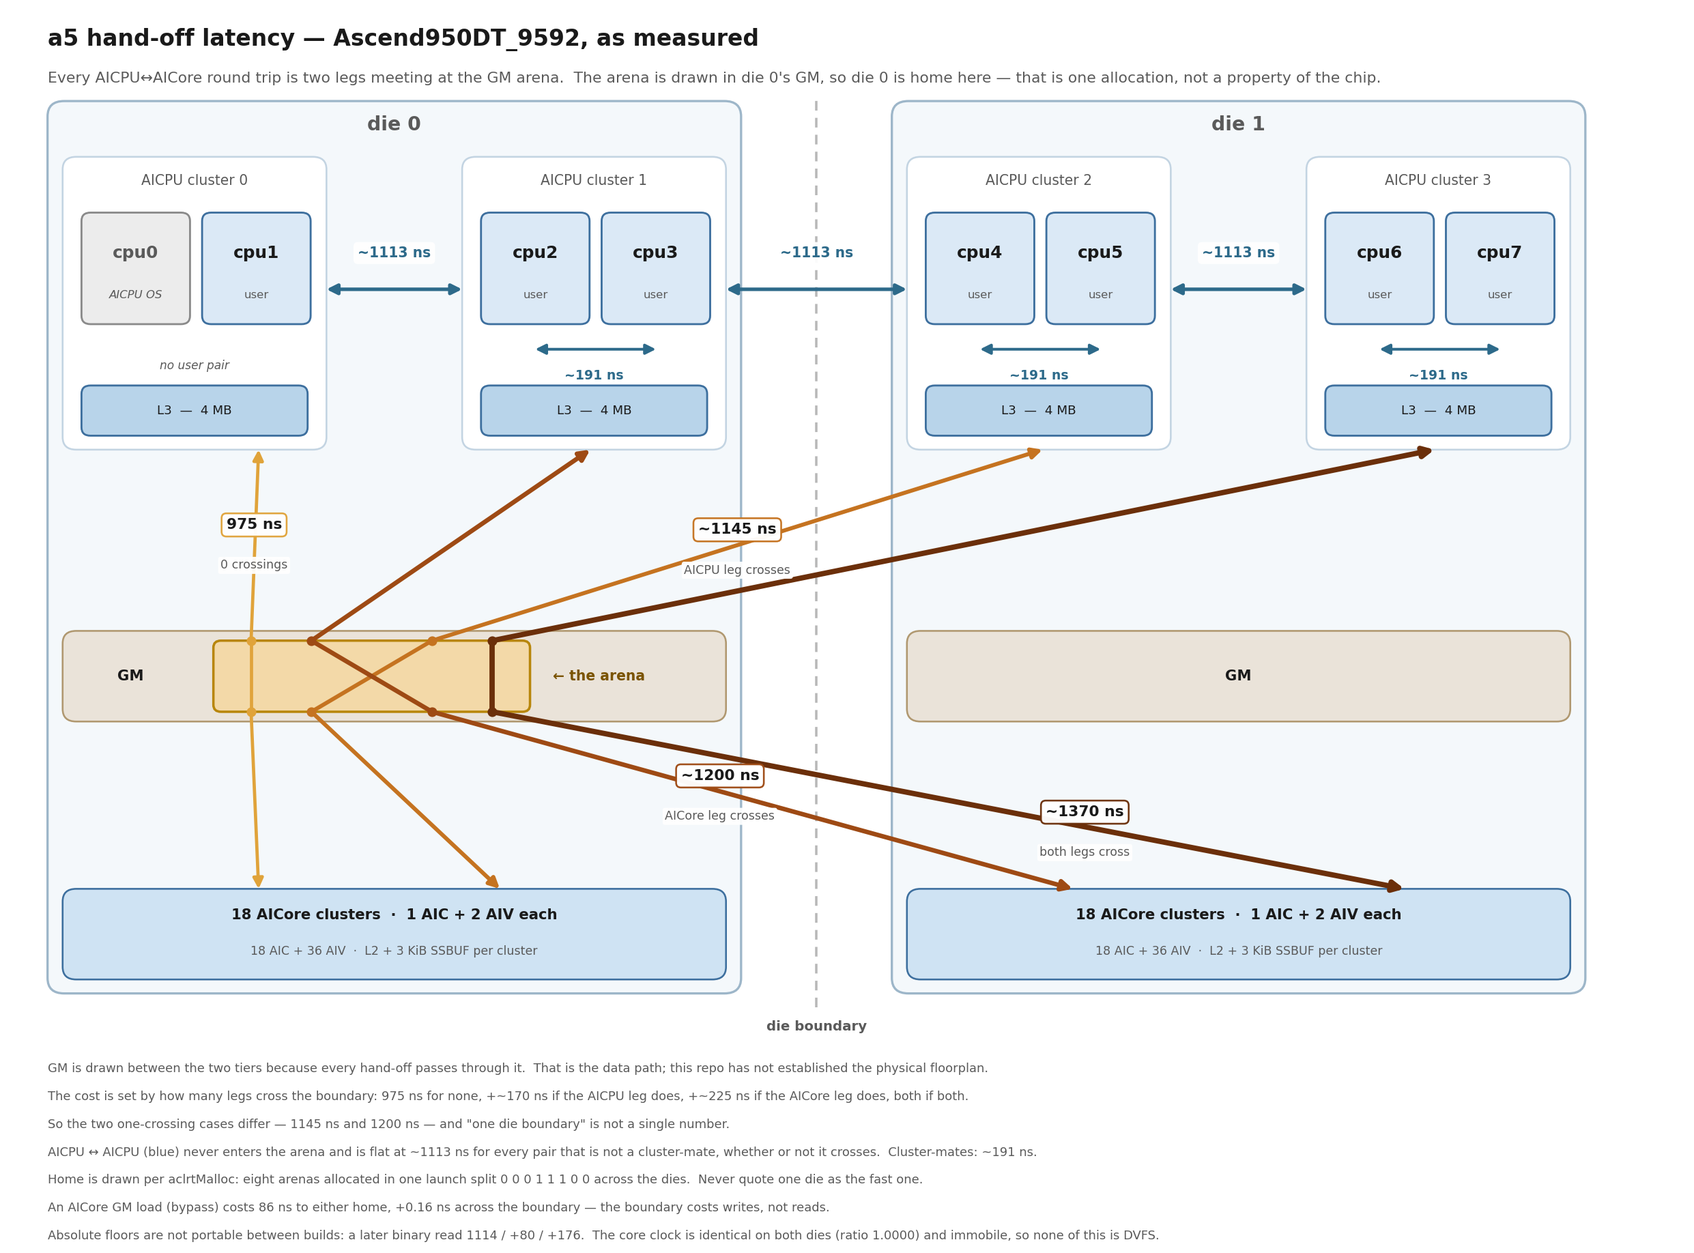
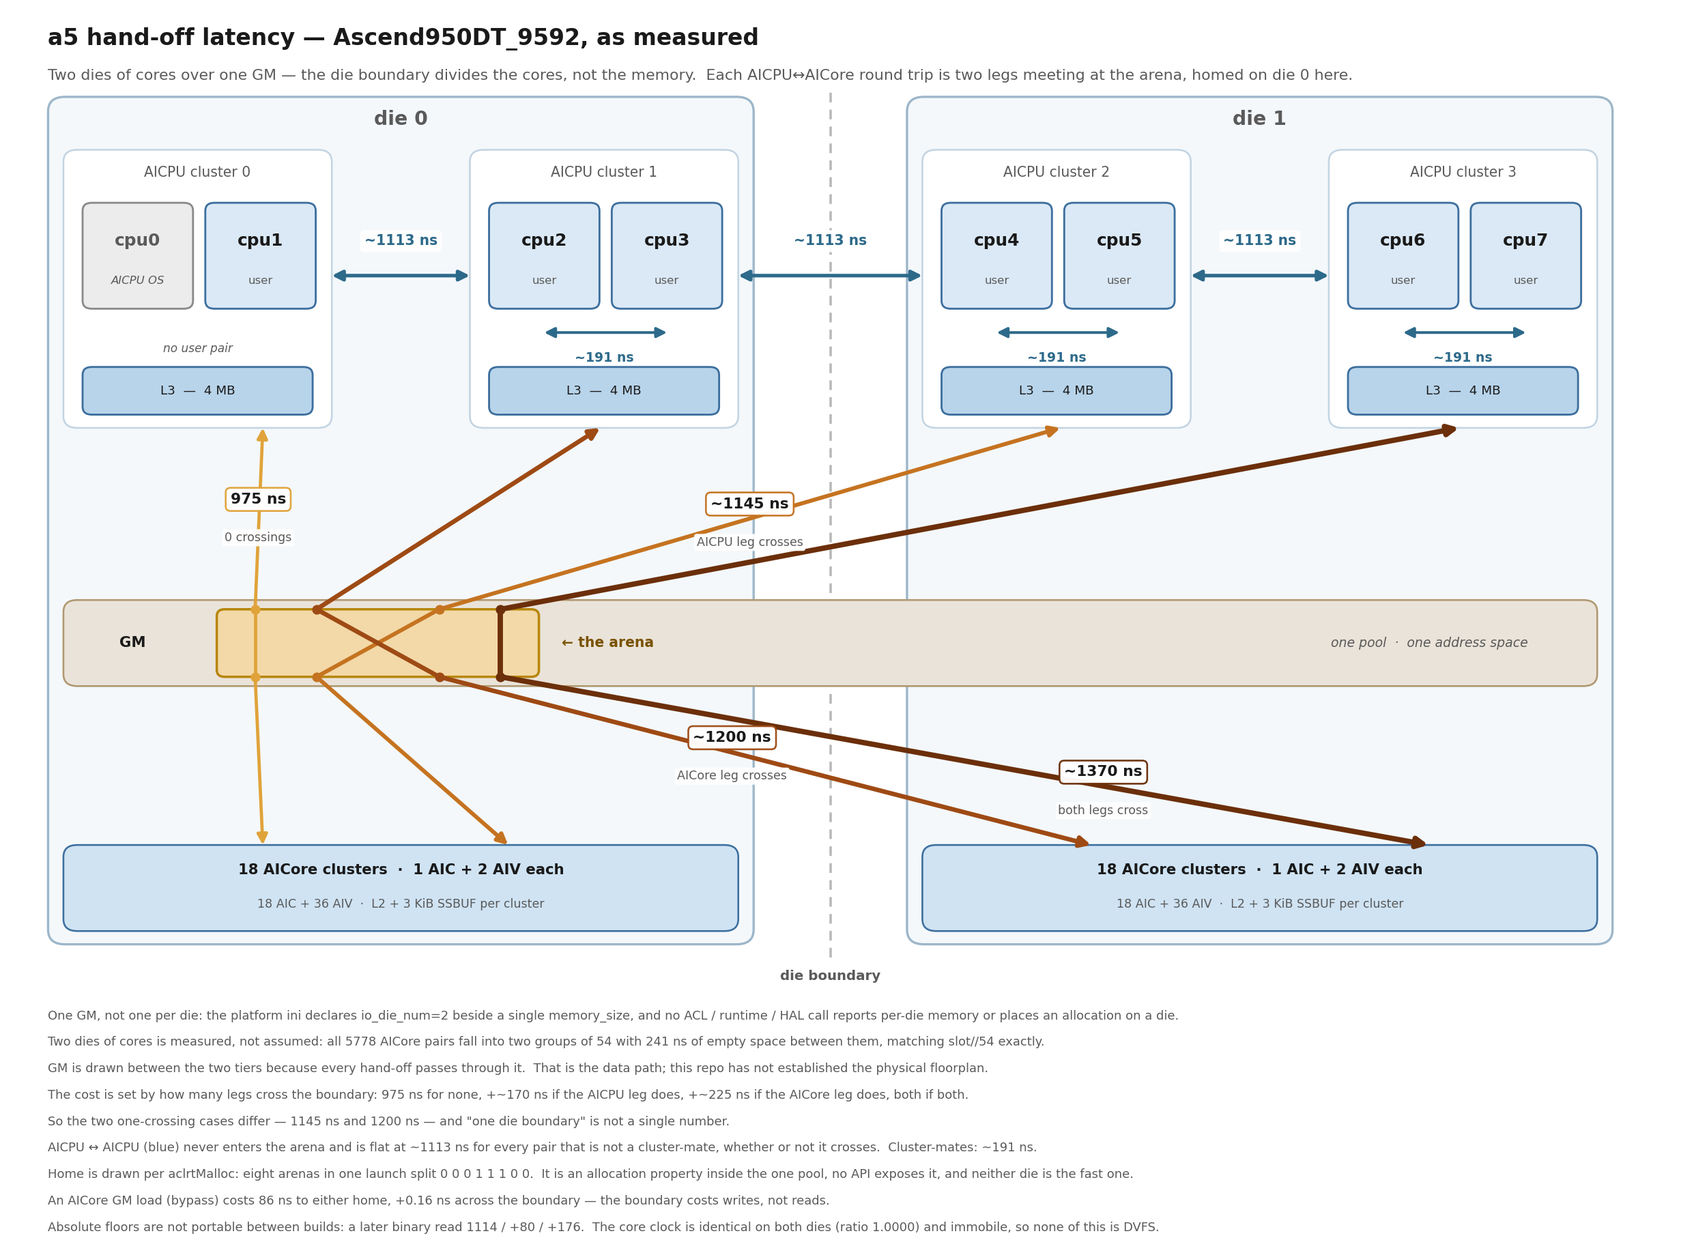
Add: measure every AICore pair, and correct the GM claim
The findings doc drew a GM inside each die. Measuring all 108 AIC/AIV
sub-cores rather than a 24-slot subset shows that claim is half right:
the dies are real, the split memory is not.

core2core now schedules every unordered pair of all 108 slots. 5778 pairs
exceeds PP_MAX_ROUNDS, so the schedule is chunked across arenas host-side
rather than by raising the constant -- the arena layout stays byte-identical,
which is what keeps the new numbers comparable with the published ones.

All 5778 pairs, 12 repeats, 69336 round trips, zero failures:

- Thresholding the matrix at its widest empty band and taking connected
  components, a procedure that reads no slot number, returns exactly two
  groups of 54 matching slot/54. No same-die pair is slower than any
  cross-die pair; 241 ns separates the populations with nothing in it.
- Allocations differ by up to 19.8 ns reproducibly, but both dies move
  together to within 1.0 ns, so an allocation carries no die affinity.
  With the platform ini declaring io_die_num=2 beside a single
  memory_size, and no ACL/runtime/HAL call placing an allocation on a die,
  the defensible picture is two dies of cores over one GM.

Two earlier claims came from the 8-cluster subset and do not survive full
sampling: a ~31 ns arena-home effect for AICore pairs, which is 1.0 ns, and
a cluster-distance gradient, which is per-cluster offsets (r falls from
+0.72 to -0.09 once they are removed). Both are corrected in the doc.
[…]

Changed region(s): [[0.031, 0.031, 0.9617, 0.8382], [0.031, 0.8693, 0.6825, 0.9935], [0.5274, 0.0621, 0.9307, 0.1242]]

diff --git a/tools/cann-examples/aicpu-aicore-pingpong/host/launch.cpp b/tools/cann-examples/aicpu-aicore-pingpong/host/launch.cpp
@@ -282,6 +282,13 @@ int main(int argc, char **argv) {
     // Full matrix in one launch. Per-launch overhead is ~58 s against ~1.2 ms
     // of measurement, so 756 launches would take 12 h; 756 rounds inside one
     // launch take about a second, and share a clock state into the bargain.
+    //
+    // A schedule longer than PP_MAX_ROUNDS is split into equal chunks that each
+    // fit the arena's pair_list, and one arena runs one chunk. The split is a
+    // host-side loop, so the arena layout the device sees is unchanged and the
+    // numbers stay comparable with a run whose schedule fit in a single piece.
+    std::vector<uint32_t> c2c_all;
+    uint32_t c2c_chunk_rounds = 0;
     {
         const char *cpus_env = std::getenv("PP_CPUS");
         uint32_t n = 0;
@@ -355,43 +362,34 @@ int main(int argc, char **argv) {
         std::printf("[sweep] schedule: %zu rounds, pair order shuffled (seed=%u)\n", sched.size(), seed);
 
         if (mode == PP_MODE_CORE2CORE) {
-            // Replace the sampled schedule: both endpoints are AICore slots
-            // now, and the contrast that matters is cluster / die / chip. A
-            // random sample of the 108-slot space would almost never draw two
-            // slots of the same cluster, which is the one pair with a path
-            // that does not go through GM.
-            static const uint32_t kClusters[] = {0u, 1u, 9u, 17u};
-            uint32_t n_sl = 0;
-            for (uint32_t d = 0; d < 2u; ++d) {
-                for (uint32_t k = 0; k < sizeof(kClusters) / sizeof(kClusters[0]); ++k) {
-                    const uint32_t c = kClusters[k];
-                    const uint32_t base = d * PP_SLOTS_PER_DIE;
-                    host_arena.slot_list[n_sl++] = base + c;
-                    host_arena.slot_list[n_sl++] = base + PP_AIC_PER_DIE + 2u * c;
-                    host_arena.slot_list[n_sl++] = base + PP_AIC_PER_DIE + 2u * c + 1u;
-                }
-            }
+            // Replace the sampled schedule with every AICore slot: both
+            // endpoints are AICore here, and the question is which pairs are
+            // slow, so no pair may be dropped. slot_list is in natural order,
+            // which makes an index into it the slot id itself; the pair order
+            // carries the shuffle instead, so a round's die and cluster
+            // relation is independent of its position in the sweep.
+            const uint32_t n_sl = PP_MAX_SLOTS;
+            for (uint32_t i = 0; i < n_sl; ++i) host_arena.slot_list[i] = i;
             host_arena.ctl.n_cpus = 0;
             host_arena.ctl.n_slots = n_sl;
-            std::vector<uint32_t> c2c;
             for (uint32_t rep = 0; rep < host_arena.ctl.n_reps; ++rep) {
                 for (uint32_t i = 0; i < n_sl; ++i) {
-                    for (uint32_t j = i + 1u; j < n_sl; ++j) c2c.push_back((i << 16) | j);
+                    for (uint32_t j = i + 1u; j < n_sl; ++j) c2c_all.push_back((i << 16) | j);
                 }
             }
-            std::shuffle(c2c.begin(), c2c.end(), rng);
-            if (c2c.size() > PP_MAX_ROUNDS) {
-                std::fprintf(stderr, "core2core schedule %zu rounds exceeds PP_MAX_ROUNDS=%u\n", c2c.size(),
-                             PP_MAX_ROUNDS);
-                return 1;
-            }
-            host_arena.ctl.n_rounds = (uint32_t)c2c.size();
-            for (uint32_t i = 0; i < c2c.size(); ++i) host_arena.pair_list[i] = c2c[i];
-            std::printf("[c2c] %u AICore slots over 8 clusters, %u rounds (unordered pairs x %u reps)\n", n_sl,
-                        host_arena.ctl.n_rounds, host_arena.ctl.n_reps);
-            std::printf("[c2c] slots:");
-            for (uint32_t i = 0; i < n_sl; ++i) std::printf(" %u", (uint32_t)host_arena.slot_list[i]);
-            std::printf("\n");
+            std::shuffle(c2c_all.begin(), c2c_all.end(), rng);
+
+            // Chunks are equal-sized so every arena runs the same number of
+            // rounds for the same wall time, and a chunk is a slice of the
+            // already-shuffled list, so it holds a random subset of pairs
+            // rather than a die or cluster stratum.
+            const uint32_t n_chunks = (uint32_t)((c2c_all.size() + PP_MAX_ROUNDS - 1u) / PP_MAX_ROUNDS);
+            c2c_chunk_rounds = (uint32_t)((c2c_all.size() + n_chunks - 1u) / n_chunks);
+            host_arena.ctl.n_rounds = c2c_chunk_rounds;
+            std::printf("[c2c] %u AICore slots, %zu unordered pairs x %u reps = %zu rounds\n", n_sl,
+                        (size_t)n_sl * (n_sl - 1u) / 2u, host_arena.ctl.n_reps, c2c_all.size());
+            std::printf("[c2c] %u chunk(s) of %u rounds; arena a runs chunk a %% %u\n", n_chunks, c2c_chunk_rounds,
+                        n_chunks);
         }
     }
     {
@@ -529,6 +527,16 @@ int main(int argc, char **argv) {
         // ctl, slot_list and pair_list are device-read-only, so the host copy
         // read back from the previous sweep still holds the schedule.
         host_arena.sched.round = 0;
+        if (mode == PP_MODE_CORE2CORE && !c2c_all.empty()) {
+            const uint32_t n_chunks = (uint32_t)((c2c_all.size() + c2c_chunk_rounds - 1u) / c2c_chunk_rounds);
+            const uint32_t chunk = a % n_chunks;
+            const size_t first = (size_t)chunk * c2c_chunk_rounds;
+            const size_t len = std::min((size_t)c2c_chunk_rounds, c2c_all.size() - first);
+            for (size_t i = 0; i < len; ++i) host_arena.pair_list[i] = c2c_all[first + i];
+            host_arena.ctl.n_rounds = (uint32_t)len;
+            std::printf("[c2c] arena %u runs chunk %u of %u: pairs %zu..%zu\n", a, chunk, n_chunks, first,
+                        first + len - 1u);
+        }
         ACL_CHECK(aclrtMemset(arena, sizeof(PpArena), 0, sizeof(PpArena)), "memset arena");
         ACL_CHECK(
             aclrtMemcpy(arena, offsetof(PpArena, attendance), &host_arena, offsetof(PpArena, attendance),

diff --git a/tools/cann-examples/a5-latency-findings/README.md b/tools/cann-examples/a5-latency-findings/README.md
@@ -5,35 +5,41 @@ device ids. Nothing was measured on `Ascend950PR` — the layout is probably the
 same, but treat every number below as unverified there until someone runs the
 tools on one.
 
-Both figures are **corroboration, not the source**: every number in them is also
-written out below, so this file can be read as plain text.
+All four figures are **corroboration, not the source**: every number in them is
+also written out below, so this file can be read as plain text.
 
 ## The chip
 
-![a5 hand-off latency: two dies, each carrying 4 AICPU cores in 2 clusters, 18
-AICore clusters of 1 AIC + 2 AIV, and its own GM, with the arena drawn in die
-0's GM and every measured round trip drawn as two legs meeting at that
-arena](figures/a5-topology.png)
+![a5 hand-off latency: two dies, each carrying 4 AICPU cores in 2 clusters and
+18 AICore clusters of 1 AIC + 2 AIV, sitting over one GM that spans both, with
+the arena homed on die 0 and every measured round trip drawn as two legs
+meeting at that arena](figures/a5-topology.png)
 
 ```text
 die 0                                  die 1
   AICPU cluster 0: cpu0 (OS)  cpu1       AICPU cluster 2: cpu4  cpu5
   AICPU cluster 1: cpu2       cpu3       AICPU cluster 3: cpu6  cpu7
   L3 4 MB per AICPU cluster              L3 4 MB per AICPU cluster
-  ----- GM -----------------------       ----- GM -----------------------
+
+  ===== GM, 96 GiB, one pool spanning both dies =======================
+
   18 AICore clusters, 1 AIC + 2 AIV      18 AICore clusters, 1 AIC + 2 AIV
     = 18 AIC + 36 AIV                      = 18 AIC + 36 AIV
     L2 + 3 KiB SSBUF per cluster           L2 + 3 KiB SSBUF per cluster
 
-  GM is drawn between the two tiers because every AICPU<->AICore hand-off
-  passes through it.  That is the data path; the physical floorplan is not
-  established here.
+  The die boundary runs between the cores, not through the memory.  GM is
+  drawn between the two tiers because every hand-off passes through it:
+  that is the data path, and the physical floorplan is not established
+  here.
 ```
 
-**Two dies, and each one carries a full set of everything**: 4 AICPU cores (2
-clusters of 2), 18 AICore clusters of 1 AIC + 2 AIV, and its own GM. It is not
-an AICPU die pair plus an AICore die pair, and there is no memory pool sitting
-between them.
+**Two dies, and each one carries a full set of cores**: 4 AICPU cores (2
+clusters of 2) and 18 AICore clusters of 1 AIC + 2 AIV. It is not an AICPU die
+pair plus an AICore die pair.
+
+**The memory is not divided the same way.** The two dies share one GM — see
+[Two dies, one GM](#two-dies-one-gm) for the measurement and the vendor-side
+evidence.
 
 `cpu0` is owned by the AICPU OS, so 7 cores are user-schedulable — 3 on die 0 and
 4 on die 1. `cluster_id = phy_cpu_id / 2`, `die_id = phy_cpu_id / 4`.
@@ -105,6 +111,11 @@ single launch split `0 0 0 1 1 1 0 0` across the two dies. This is why the same
 binary looks like it favours die 0 in one launch and die 1 in the next — the
 arena landed on the other side. **Never quote one die as the fast one.**
 
+Note, though, that the home die here was identified by *which configuration ran
+faster*, and the AICore↔AICore matrix finds no home effect at all. See
+[Two dies, one GM](#two-dies-one-gm) — the effect is real, its cause is not
+established.
+
 ## The boundary costs writes, not reads
 
 | Across the die boundary | Penalty |
@@ -154,37 +165,112 @@ so none of the above is a DVFS artefact and counting cycles would change nothing
 ## AICore ↔ AICore
 
 ![AICore to AICore round trip by relation, against the AICPU to AICore path on
-the same binary: 376 ns inside a cluster, 385 ns across a die, 730 ns across the
+the same binary: 366 ns inside a cluster, 384 ns across a die, 723 ns across the
 die boundary, versus 1114 and 1370 ns for AICPU to
 AICore](figures/aicore-aicore.png)
 
-24 slots over 8 clusters, every unordered pair, 3 launches × 4 arenas = 6624
-round trips, zero failures.
+**All 108 AIC/AIV sub-cores, all 5778 unordered pairs, 12 repeats each** —
+69 336 measured round trips over 24 arena-runs, zero failures, with all 108
+blocks serving in every run.
 
 | Pair | Round trip |
 | ---- | ---------- |
-| Same cluster (AIC↔AIV or AIV↔AIV) | **376 ns** |
-| Same die, different clusters | **385 ns** |
-| Across the die boundary | **730 ns** |
+| Same cluster (AIC↔AIV or AIV↔AIV) | **366 ns** |
+| Same die, different clusters | **384 ns** |
+| Across the die boundary | **723 ns** |
 
-Three things worth keeping:
-
-- **An AICore pair hands off 2.9× faster than an AICPU does** — 385 ns against
+- **An AICore pair hands off 2.9× faster than an AICPU does** — 384 ns against
   the 1114 ns floor on the same binary. The AICPU is the slow party, not the
   fabric.
-- **Sharing a cluster buys 9 ns, which is nothing.** The 1 AIC + 2 AIV of a
-  cluster share a 3 KiB SSBUF and an L2, but this protocol hands off through GM,
-  so that path is never on it. Measuring what SSBUF is worth needs a kernel that
-  actually uses `__ssbuf__`; this result says only that cluster locality is not
-  free money for a GM-mediated hand-off.
-- **AIC and AIV are interchangeable** here: 378–386 ns same die, 727–731 ns
-  across, whichever kinds the pair mixes.
+- **Sharing a cluster buys 18 ns.** The 1 AIC + 2 AIV of a cluster share a 3 KiB
+  SSBUF and an L2, but this protocol hands off through GM, so that path is never
+  on it. Measuring what SSBUF is worth needs a kernel that actually uses
+  `__ssbuf__`; this result says only that cluster locality is not free money for
+  a GM-mediated hand-off.
+- **AIC and AIV are interchangeable**: 379.2 ns AIC↔AIC, 383.8 AIC↔AIV, 385.3
+  AIV↔AIV, all same-die cross-cluster. Six nanoseconds across the three.
+- **Inside a die the fabric is flat.** Cluster-index distance *looks* correlated
+  with latency (r = +0.72), but that is an artefact of which clusters sit at the
+  extremes: remove additive per-cluster offsets and it collapses to **r = −0.09**
+  with 7.9 ns of residual spread. What is left is ~20 ns of per-cluster
+  idiosyncrasy with no spatial pattern — and the dies do not even share it, die
+  0's slowest cluster being 1 and die 1's being 17. There is no NoC distance
+  gradient to schedule around.
 
-The arena's home die still shows up — the cheaper same-die group alternates by
-arena index and flips between launches, the same signature as everywhere else —
-but it is worth only **~31 ns**, swamped by the ~347 ns cost of the two cores
-being on opposite dies. So for an AICore pair, *where the cores are* matters an
-order of magnitude more than *where the memory is*.
+### The allocation matters ~20 ns, and the die it lands on does not
+
+The eight arenas of a launch get the same eight addresses every time, 18 MiB
+apart, and each one's cost is reproducible to 1–2 ns across launches:
+
+| arena | 0 | 1 | 2 | 3 | 4 | 5 | 6 | 7 |
+| ----- | - | - | - | - | - | - | - | - |
+| median ns | 396 | 383 | 385 | 380 | 387 | 381 | 377 | 388 |
+
+A 19.8 ns span, stable, and not monotone in address. **But both dies move
+together**: over all 24 arena-runs the median gap between die-0 pairs and
+die-1 pairs in the same arena is **1.0 ns** (worst case 3.8 ns).
+
+This **corrects an earlier figure in this document**. The 8-cluster subset
+reported a ~31 ns arena-home effect for AICore pairs. It does not survive full
+sampling: that subset drew 4 clusters per die whose intrinsic offsets differ
+between the dies, and the apparent home effect was that imbalance. For an
+AICore pair there is no measurable home die.
+
+## Two dies, one GM
+
+![The full 108x108 matrix of AICore-to-AICore round trips beside the same 5778
+numbers as a histogram. The matrix shows two pale blocks on the diagonal and two
+dark off-diagonal blocks; the histogram shows two peaks separated by 241 ns of
+completely empty space](figures/aicore-matrix.png)
+
+```text
+                          same die      across dies
+pairs                         2862             2916
+slowest / fastest         433.9 ns         675.0 ns
+                   --- 241.1 ns with nothing in it ---
+```
+
+**The dies are real, and latency alone proves it.** Threshold the 108×108 matrix
+at its widest empty band, keep the fast edges, take connected components — a
+procedure that never reads a slot number. It returns exactly two groups of 54,
+each holding 18 AIC and 36 AIV, and they agree with `slot / 54` on all 108
+cores. This is not a statistical tendency: **no same-die pair is slower than any
+cross-die pair**, and 241 ns separates the two populations.
+
+**The memory is not divided the same way.** Four independent lines say one pool:
+
+| Evidence | What it shows |
+| -------- | ------------- |
+| Allocations vary ~20 ns by address, but identically for both dies (1.0 ns asymmetry over 24 arenas) | an allocation has no die affinity a core can feel |
+| An AICore GM load costs 86 ns to either home, **+0.16 ns** across the boundary | reaching the far side of the chip for data is free |
+| `Ascend950DT_9592.ini` declares `io_die_num=2` beside a single `memory_size` of 96 GiB | the vendor models two dies and still reports one memory |
+| No ACL, runtime, HAL or DSMI call reports per-die memory or accepts a die when allocating; `drv_mem_side` has `MEM_HOST_NUMA_SIDE` and no device equivalent | there is no interface to place, or even observe, an allocation per die |
+
+CANN is not merely silent about dies. It uses the per-die idiom freely — CCU
+pools ("单 die 容量有限"), task dispatch ("die IDs must alternate between die 0
+and die 1"), RDMA `die_index`, and `dieId` in every error string. It never uses
+it for GM.
+
+**What the boundary costs is visibility between cores, not distance to memory:**
+
+| Change | Cost |
+| ------ | ---- |
+| Move the memory to another allocation, both cores staying together | **~20 ns**, and the same for both dies |
+| Move one core to the other die | **+339 ns** |
+
+If a hand-off were two cores doing GM round trips to a word at address X, the
+cost would track where X is. It does not. And +339 ns is about twice the ~176 ns
+one-way store-visibility penalty measured separately — what a round trip that
+crosses the boundary twice should cost.
+
+**So: two dies of cores over one GM.** Draw the boundary between the cores.
+
+One thing this does **not** settle. The AICPU↔AICore law above has two terms
+keyed to the arena's home die, worth +170 and +225 ns, and that home was
+identified by which configuration ran faster. The AICore-pair data finds no home
+effect at all. Both were measured on this chip and they are in tension; the
+one-way timestamp experiment is what would resolve it. Until then, treat the
+AICPU-path home terms as describing a real effect whose cause is not established.
 
 ## Caveats
 
@@ -195,18 +281,32 @@ order of magnitude more than *where the memory is*.
 - **`Ascend950PR` is unmeasured**, as is any a5 SKU other than `_9592`. CANN's a5
   ini files span `ai_core_cnt` from 8 to ~28 per die, so even the 18 is per-SKU.
 - The AICPU↔AICPU matrix is a floor over 6 sweeps on device 0; the AICPU↔AICore
-  numbers are medians over 16 arena sweeps across two launches.
+  numbers are medians over 16 arena sweeps across two launches; the
+  AICore↔AICore matrix is the median of 12 repeats per pair over 24 arena-runs
+  on device 1.
+- **A subset can invent structure that full sampling removes.** Two claims in
+  earlier drafts came from an 8-cluster subset and did not survive measuring all
+  108 sub-cores: a ~31 ns arena-home effect for AICore pairs (actually 1.0 ns),
+  and an apparent cluster-distance gradient (actually per-cluster offsets). Both
+  are corrected above. Prefer the full matrix wherever the two disagree.
 
 ## How it was measured
 
 Two standalone CANN tools, each a host `.so` + AICPU `.so` + AICore `.o` launched
 on ACL streams with no runtime dependency:
 
-- `../aicpu-pingpong/` — AICPU core-to-core, atomic ping-pong over GM.
-- `../aicpu-aicore-pingpong/` — AICPU↔AICore, raw GM hand-off. Launches
-  `blockDim=36` so every one of the 108 AIC/AIV slots reports in, filters to one
-  target per round, and shuffles the pair order so position in the schedule
-  cannot be mistaken for position on the chip.
+- `../aicpu-pingpong/` — AICPU core-to-core, atomic ping-pong over a counter
+  in the device SO's **BSS, not GM**: GM-side atomics trap from the AICPU's
+  libc. Its numbers are therefore not directly comparable with the GM
+  hand-offs measured by the other tool, which is why no table mixes them.
+- `../aicpu-aicore-pingpong/` — AICPU↔AICore and AICore↔AICore, raw GM
+  hand-off. Launches `blockDim=36`, which on a5 is a bijection onto the 36
+  clusters, so every one of the 108 AIC/AIV slots reports in and a slot is
+  chosen by coreid filter rather than by placement. It filters to one pair per
+  round and shuffles the pair order, so position in the schedule cannot be
+  mistaken for position on the chip. A schedule longer than the arena's
+  `pair_list` is split into equal chunks across arenas, which keeps the arena
+  layout — and therefore the comparability of the numbers — unchanged.
 
 Both use bypass primitives on the AICore side (`ld_dev` / `st_dev` + `dsb`) and
 volatile + `rmb()` / `wmb()` on the AICPU side, one writer per 64-byte line, and
